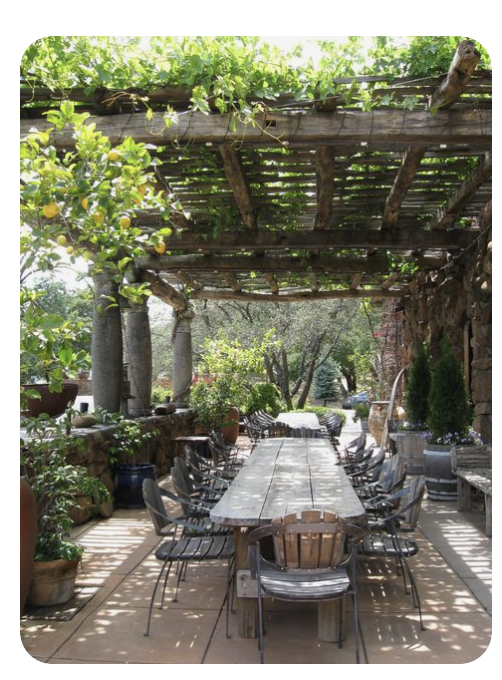
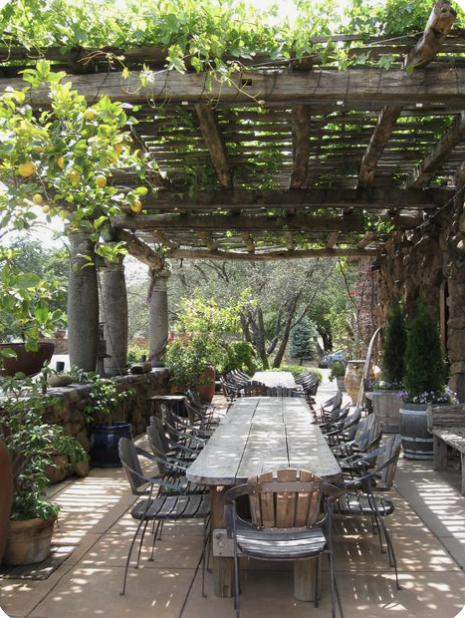
Adjusted the original image for better aesthetic

diff --git a/style.css b/style.css
@@ -8,7 +8,7 @@
 }
 
 .card img {
-  object-fit: fill;
+  object-fit: cover;
   position: absolute;
   right: 0;
   bottom: 0;
